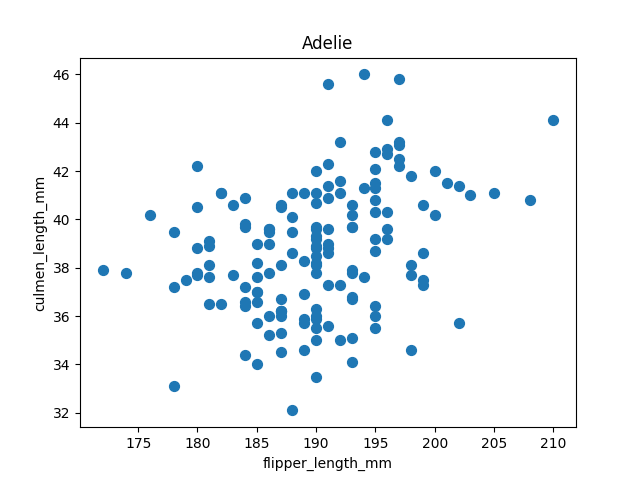
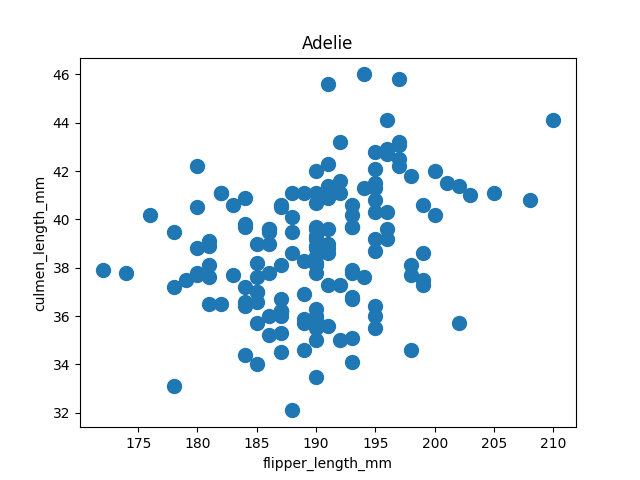
Extra massive markers

diff --git a/penguins.py b/penguins.py
@@ -16,5 +16,5 @@ penguins_size['colour'] = colour
 same_graph = penguins_size.plot.scatter(x = 'flipper_length_mm', y = 'culmen_length_mm', c = 'colour').get_figure()
 same_graph.savefig('same_graph.png')
 for key, frame in penguins_size.groupby('species'):
-  different_graphs = frame.plot.scatter(x = 'flipper_length_mm', y= 'culmen_length_mm', title = key, s = 50).get_figure()
+  different_graphs = frame.plot.scatter(x = 'flipper_length_mm', y= 'culmen_length_mm', title = key, s = 100).get_figure()
   different_graphs.savefig('graph'+str(key)+'.png')
